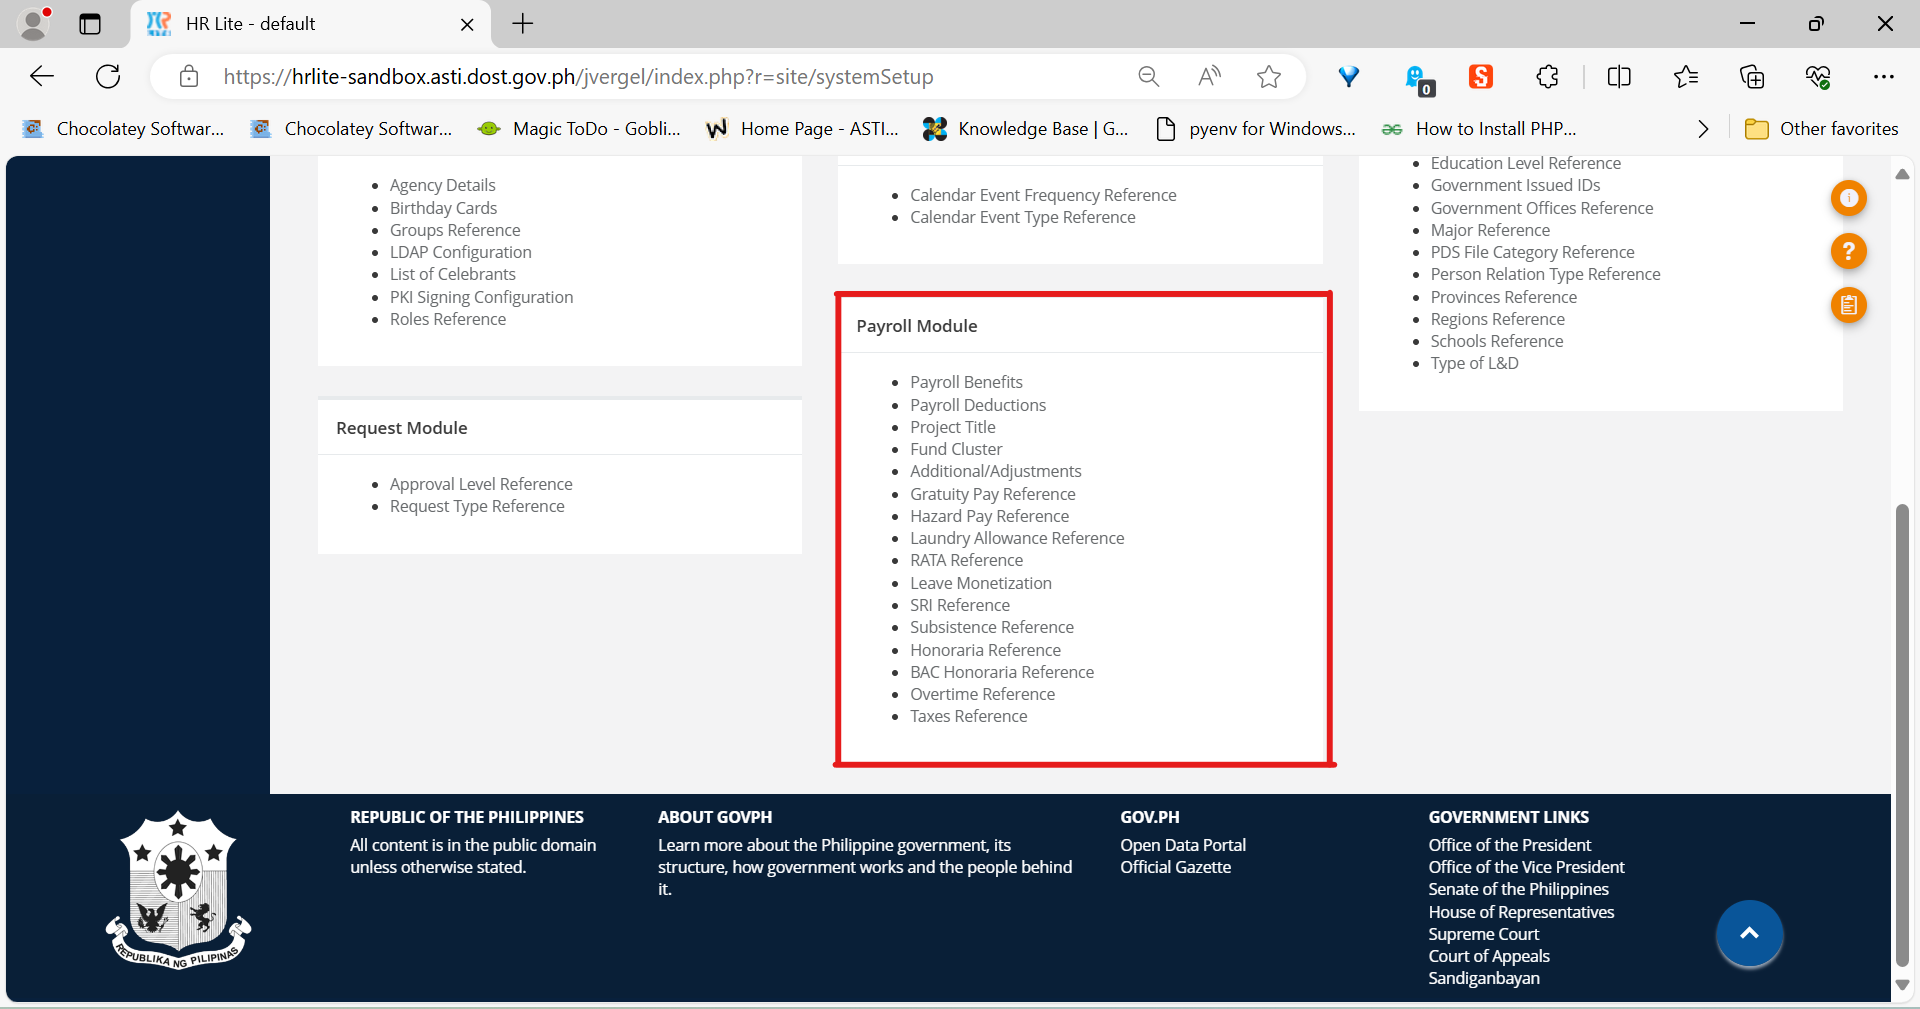
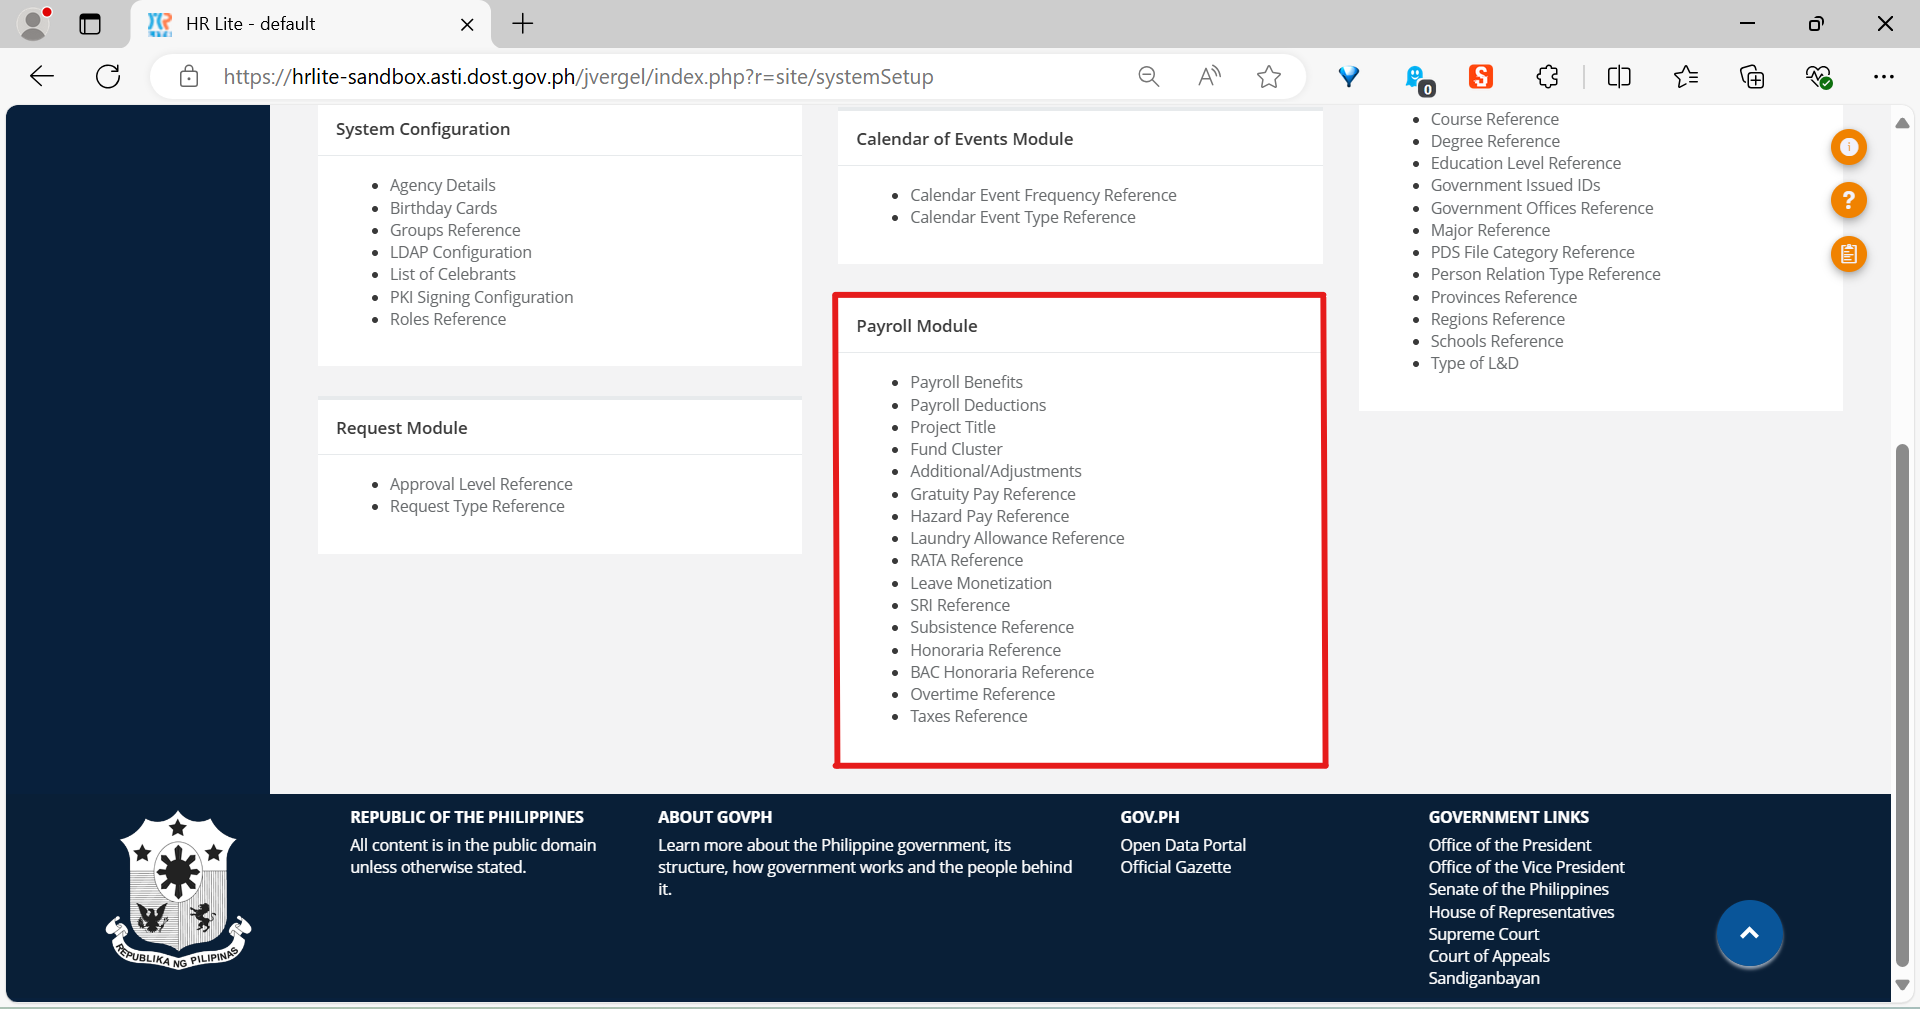
Changed an illustration and its caption in the Introduction chapter

diff --git a/introduction/index.rst b/introduction/index.rst
@@ -3,4 +3,5 @@ Introduction
 
 .. figure:: illustrations/001.png
 
-   Links to the various payroll-related modules.
+   The Payroll Module box contains links to various payroll-related modules.
+   *(Red lines are only for emphasis, not part of the UI.)*
